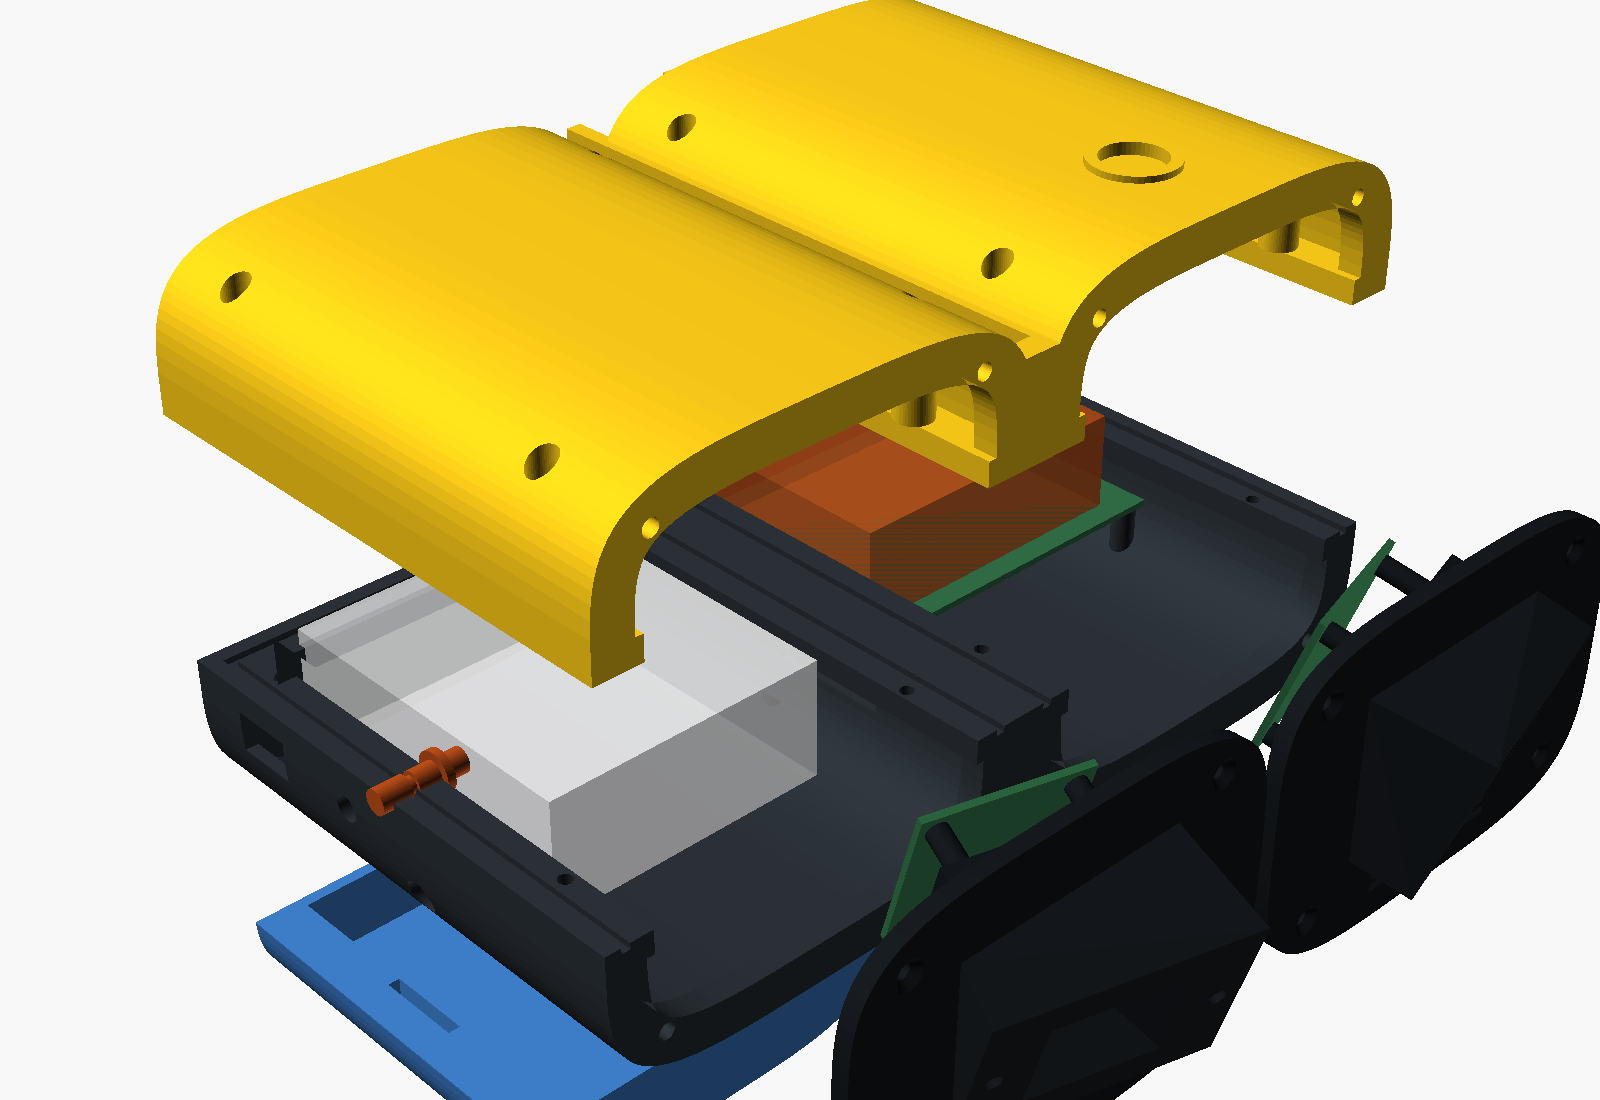
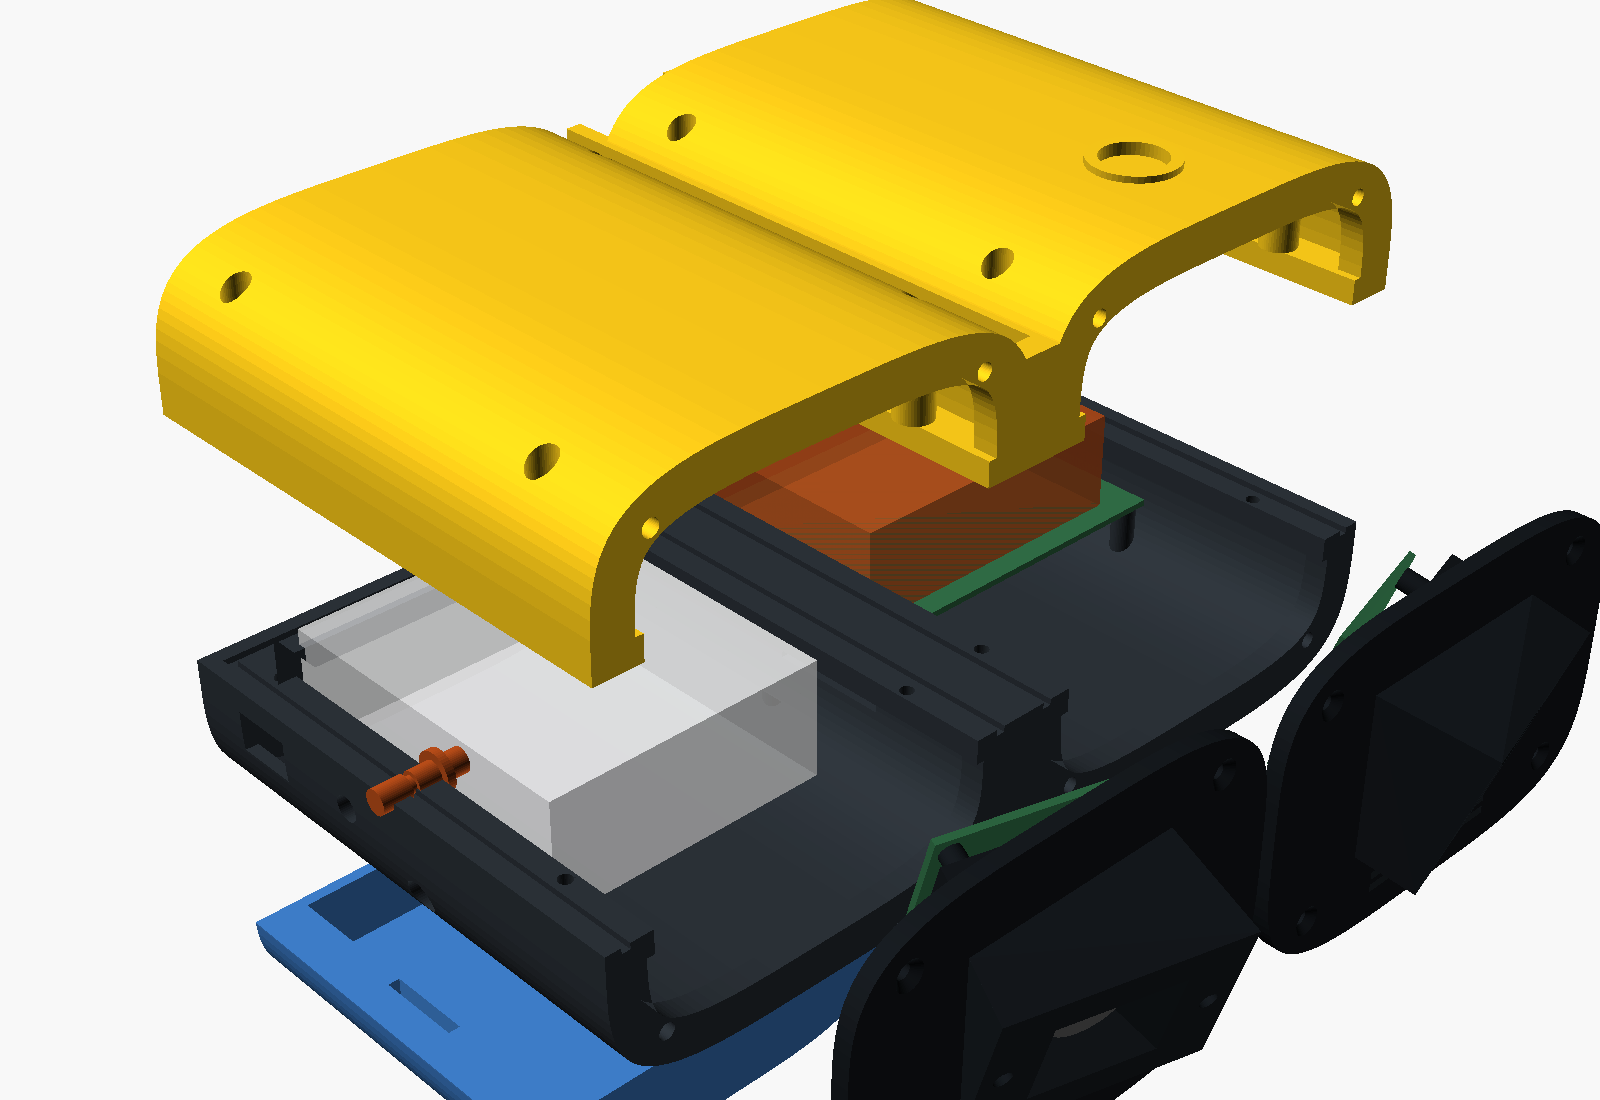
Match the binocular model to the printed prototype (rev A)
The prototype was printed from the first version of the model. Checked
against the CIL358 drawing, it works as printed: on the 6mm standoffs
the lens front sits 7mm ahead of the nose plate and the original hoods
clear its 57 x 32 degree view. This restores that geometry and adds two
small fixes for reprints: an 18mm pocket so the lens cap can turn to
focus, and a bubble-level seat that no longer pokes into the lid.

Claude-Session: https://claude.ai/code/session_01FHYQy4hV3ZCwhzzwFnLpdn

diff --git a/hardware/enclosure-binocular/README.md b/hardware/enclosure-binocular/README.md
@@ -2,7 +2,7 @@
 
 OpenSCAD model of concept B: two rounded pods, one per camera, joined by a bridge whose top is a rain channel. The warm pod (−X) holds the ROCK 5B+ and camera 1. The cool pod (+X) holds the Cygnett bank and camera 2.
 
-All sizes live in `bino.scad`. Every other file includes it and draws one printable part, already turned to its print orientation.
+This is **rev A**: the geometry of the printed prototype, with two small fixes (marked `FIX A1` in `bino.scad`) for the Commonlands CIL358 5.8mm lenses. All sizes live in `bino.scad`. Every other file includes it and draws one printable part, already turned to its print orientation.
 
 | File | Part | Print |
 |---|---|---|
@@ -22,7 +22,7 @@ Export with `openscad -o base.stl base.scad`, and the same for each part. When y
 No separate visor. The hoods are the visors.
 
 - **Rain from above:** the body sits 4° tail-down, so rain on the pods runs backwards and never over the front. Rain that lands on a hood runs forward along its top. The top extends 8mm further forward than the bottom, so it drips clear of the opening. A small groove under the top lip stops drips creeping back inside onto the glass.
-- **Field of view:** each hood flares to stay just outside the lens's view, with 1.5mm margin. It's set for the Commonlands CIL358 5.8mm lens, about 57° × 32° on the IMX415. A round hood that size would cut off the corners of the image.
+- **Field of view:** the hoods were sized for a 50° × 29° view. The CIL358 sees about 57° × 32° on the IMX415, but on the printed 6mm standoffs its front sits 7mm ahead of the nose plate, 5mm further forward than planned, so the hoods still clear its view. This was checked against the lens's corner rays from its entrance pupil, for sensor heights from 0.8 to 1.8mm. Don't add spacers under the camera boards: moving the lens back would bring the hood edges into the picture.
 - **Bench testing:** take the hoods off when using the stock 2.95mm lens. Its 75° view is wider than the hood.
 
 ## Bought parts
@@ -49,7 +49,7 @@ These values in `bino.scad` are placeholders:
 - **Heatsink:** height with the fan fitted (`heatsink_h`)
 - **Bank:** size, plus where its button and USB-C port sit (`bank_w`, `bank_l`, `bank_h`, `bank_button_y`, `bank_port_y`)
 - **Camera board:** size, hole spacing and lens holder footprint (`cam_board`, `cam_holes`, `cam_holder_w`)
-- **Camera board:** how far the sensor surface sits above the board's front face (`sensor_h`, set to 1.3mm). The lens is set from the Commonlands drawing for the CIL358-F1.9-M12A650: 29.7mm from image plane to front, Ø17mm front cap, M12x0.5 thread. The camera board sits on standoffs sized so the lens front lands 2mm ahead of the nose plate face (`lens_front`).
+- **Camera board:** how far the sensor surface sits above the board's front face (`sensor_h`, set to 1.3mm). The lens is set from the Commonlands drawing for the CIL358-F1.9-M12A650: 29.7mm from image plane to front, Ø17mm front cap, M12x0.5 thread.
 - **Ribbons:** camera 2's ribbon crosses to the board through the tunnel under the channel. It needs about 15cm.
 
 ## Fit at the placeholder sizes
@@ -59,4 +59,9 @@ These values in `bino.scad` are placeholders:
 - **Cradle:** walls 4.6mm thick at the pocket floor.
 - **Battery:** sits 4mm above the lid split, with about 30mm free above it.
 - **Size:** 228 × 136 × 77.5mm including the bubble-level seat. The hoods reach about 36mm ahead of the nose plates.
-- **Camera boards:** on 11mm standoffs behind the pads, which puts the CIL358's front 2mm ahead of the nose plate.
+- **Camera boards:** on the printed 6mm standoffs, which puts the CIL358's front 7mm ahead of the nose plate.
+
+## Prototype notes (rev A, printed)
+
+- **Lens hole:** the printed nose plates have a 15mm bore just behind where the lens's 17mm cap sits, with only a few tenths of a millimetre to spare. Before assembly, screw a lens into each camera and try it in its nose plate. If the cap binds or won't turn freely for focusing, open the front of the hole to 18mm with a step drill or round file. `FIX A1` in the model makes this an 18mm pocket for any reprint.
+- **Bubble-level seat:** on the printed lid it reaches 5mm into the inside of the warm pod. Nothing touches it, so leave it. `FIX A1` moves it outside for any reprint.
